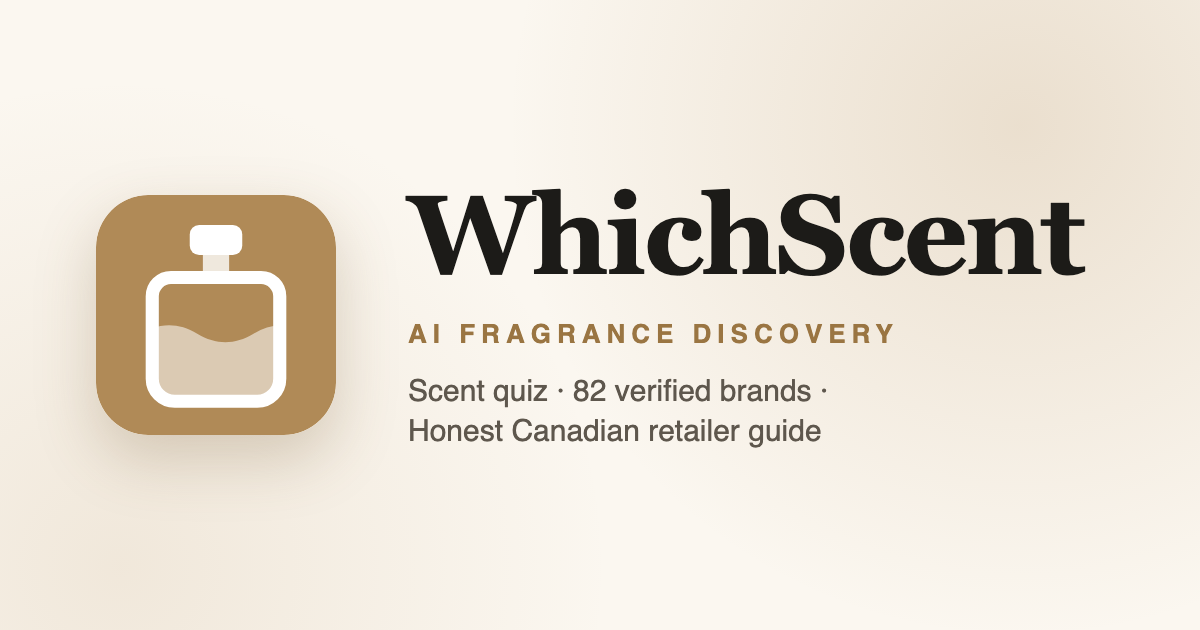
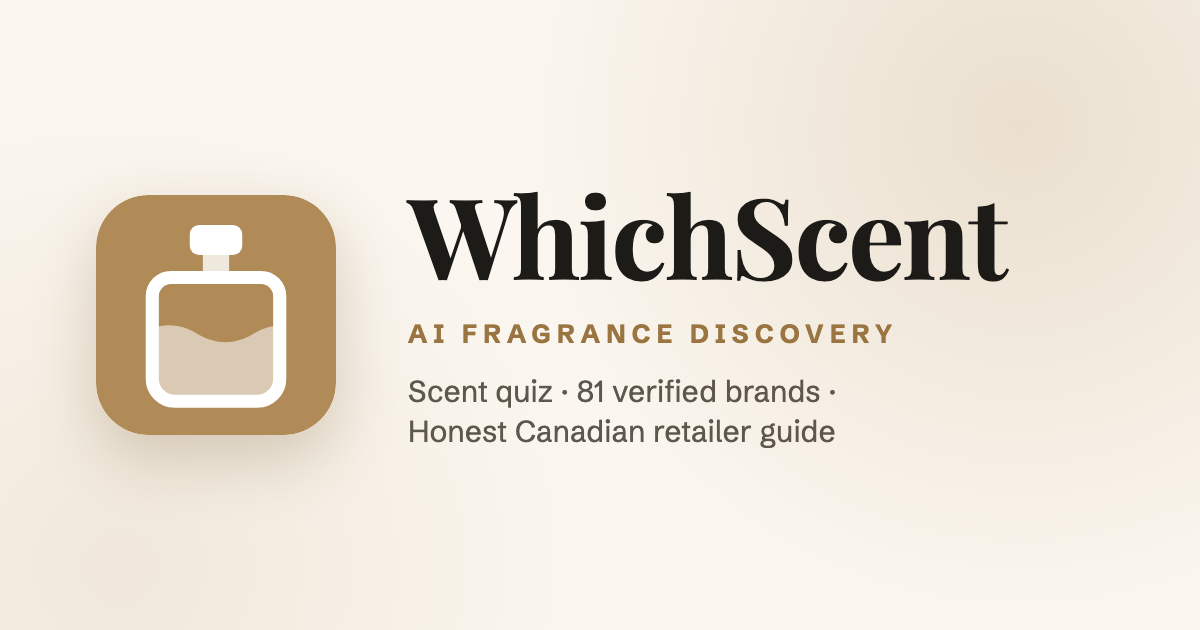
Typeset pass, product brief and site critique
- Replace Inter with Schibsted Grotesk; keep Playfair Display. Both are
  self-hosted variable fonts with preloads and metric-matched fallbacks,
  so Google Fonts is no longer requested.
- Article and Learn text is 16px on every screen and capped at ~72
  characters per line; the article lede gets its own size.
- Small labels get a 12px floor (from 10-11px); one-off sizes move onto
  the scale; prices and match scores use tabular numerals; headings
  balance their line breaks; the 404 uses the display face.
- Add PRODUCT.md and the first Impeccable critique snapshot.
- Share image re-rendered in the real fonts with the correct brand count (81).

Changed region(s): [[0.3392, 0.3016, 0.925, 0.4524], [0.3392, 0.6032, 0.7092, 0.7238], [0.3392, 0.5127, 0.74, 0.5429]]

diff --git a/src/routes/retailers.tsx b/src/routes/retailers.tsx
@@ -131,7 +131,7 @@ const TIPS = [
 
 function Pill({ children }: { children: React.ReactNode }) {
   return (
-    <span className="rounded-full bg-secondary px-3 py-1 text-[11px] font-semibold text-secondary-foreground">
+    <span className="rounded-full bg-secondary px-3 py-1 text-xs font-semibold text-secondary-foreground">
       {children}
     </span>
   );
@@ -170,9 +170,7 @@ function RetailersPage() {
                 <h2 className="font-serif text-xl font-bold text-foreground">{r.name}</h2>
                 <span className="text-xs text-muted-foreground">{r.domain}</span>
               </div>
-              <p className="mt-3 text-[14px] leading-relaxed text-muted-foreground">
-                {r.description}
-              </p>
+              <p className="mt-3 text-sm leading-relaxed text-muted-foreground">{r.description}</p>
               <div className="mt-4 flex flex-wrap gap-2">
                 <Pill>💸 {r.pills.price}</Pill>
                 <Pill>✓ {r.pills.authenticity}</Pill>
@@ -180,7 +178,7 @@ function RetailersPage() {
               </div>
               <div className="mt-5 flex items-center justify-between gap-3 border-t border-border pt-4">
                 <div>
-                  <p className="text-[10px] font-bold uppercase tracking-wide text-muted-foreground">
+                  <p className="text-xs font-bold uppercase tracking-wide text-muted-foreground">
                     Best for
                   </p>
                   <p className="text-sm font-semibold text-foreground">{r.bestFor}</p>
@@ -246,7 +244,7 @@ function RetailersPage() {
                 key={i}
                 className="flex gap-3 rounded-xl border bg-card p-4 text-sm leading-relaxed text-foreground shadow-scent"
               >
-                <span className="flex h-6 w-6 shrink-0 items-center justify-center rounded-full bg-primary text-[11px] font-bold text-primary-foreground">
+                <span className="flex h-6 w-6 shrink-0 items-center justify-center rounded-full bg-primary text-xs font-bold text-primary-foreground">
                   {i + 1}
                 </span>
                 <span>{t}</span>

diff --git a/src/routes/learn.index.tsx b/src/routes/learn.index.tsx
@@ -209,7 +209,7 @@ function LearnPage() {
         <h1 className="mt-2 font-serif text-4xl font-bold leading-tight sm:text-6xl">
           Fragrance Learn Hub
         </h1>
-        <p className="mt-4 max-w-[660px] text-base leading-relaxed text-muted-foreground">
+        <p className="mt-4 max-w-[34rem] text-base leading-relaxed text-muted-foreground">
           In-depth, human-reviewed guides to choosing, wearing and buying fragrance — plus
           plain-English answers to the questions people actually search for. No sponsored
           placements, no invented reviews.{" "}
@@ -291,7 +291,7 @@ function LearnPage() {
       <div className="mx-auto w-full max-w-[1100px] space-y-8 px-5 pb-24">
         <div>
           <h2 className="font-serif text-3xl font-bold">Quick answers</h2>
-          <p className="mt-3 max-w-[640px] text-sm leading-relaxed text-muted-foreground">
+          <p className="mt-3 max-w-[30rem] text-sm leading-relaxed text-muted-foreground">
             Short answers to the questions we get asked most. For the long versions, read the guides
             above.
           </p>
@@ -304,7 +304,7 @@ function LearnPage() {
             className="scroll-mt-24 rounded-3xl border bg-card p-6 shadow-scent sm:p-8"
           >
             <h3 className="font-serif text-2xl font-bold">{topic.title}</h3>
-            <p className="mt-3 max-w-[680px] text-sm leading-relaxed text-muted-foreground">
+            <p className="mt-3 max-w-[30rem] text-sm leading-relaxed text-muted-foreground">
               {topic.intro}
             </p>
 
@@ -338,7 +338,7 @@ function LearnPage() {
 
         <section className="rounded-3xl border border-border bg-card p-6 sm:p-8">
           <h2 className="font-serif text-2xl font-bold">Who writes these guides</h2>
-          <p className="mt-3 max-w-[680px] text-sm leading-relaxed text-muted-foreground">
+          <p className="mt-3 max-w-[30rem] text-sm leading-relaxed text-muted-foreground">
             {AUTHOR.name} — {AUTHOR.bio} Every article is reviewed by a person before publication.
             Our{" "}
             <Link

diff --git a/src/routes/__root.tsx b/src/routes/__root.tsx
@@ -9,6 +9,8 @@ import {
 import { Analytics } from "@vercel/analytics/react";
 
 import appCss from "../styles.css?url";
+import bodyFont from "@fontsource-variable/schibsted-grotesk/files/schibsted-grotesk-latin-wght-normal.woff2?url";
+import displayFont from "@fontsource-variable/playfair-display/files/playfair-display-latin-wght-normal.woff2?url";
 import { ConsentBanner } from "../components/ConsentBanner";
 import { SITE_URL } from "../lib/site";
 
@@ -16,8 +18,8 @@ function NotFoundComponent() {
   return (
     <div className="flex min-h-screen items-center justify-center bg-background px-4">
       <div className="max-w-md text-center">
-        <h1 className="text-7xl font-bold text-foreground">404</h1>
-        <h2 className="mt-4 text-xl font-semibold text-foreground">Page not found</h2>
+        <h1 className="font-serif text-7xl font-bold text-foreground">404</h1>
+        <h2 className="mt-4 font-serif text-2xl font-bold text-foreground">Page not found</h2>
         <p className="mt-2 text-sm text-muted-foreground">
           The page you're looking for doesn't exist or has been moved.
         </p>
@@ -66,11 +68,14 @@ export const Route = createRootRoute({
       { rel: "icon", href: "/favicon.svg", type: "image/svg+xml" },
       { rel: "apple-touch-icon", href: "/apple-touch-icon.png" },
       { rel: "manifest", href: "/site.webmanifest" },
-      { rel: "preconnect", href: "https://fonts.googleapis.com" },
-      { rel: "preconnect", href: "https://fonts.gstatic.com", crossOrigin: "anonymous" },
+      // Preload the Latin subsets every page uses so text renders in the real faces sooner.
+      { rel: "preload", href: bodyFont, as: "font", type: "font/woff2", crossOrigin: "anonymous" },
       {
-        rel: "stylesheet",
-        href: "https://fonts.googleapis.com/css2?family=Inter:wght@400;500;600;700;800&family=Playfair+Display:wght@600;700;800&display=swap",
+        rel: "preload",
+        href: displayFont,
+        as: "font",
+        type: "font/woff2",
+        crossOrigin: "anonymous",
       },
       { rel: "stylesheet", href: appCss },
     ],

diff --git a/src/styles.css b/src/styles.css
@@ -1,6 +1,39 @@
 @import "tailwindcss" source(none);
 @source "../src";
 @import "tw-animate-css";
+/* Self-hosted variable fonts: no third-party font request, and only the subsets a page uses. */
+@import "@fontsource-variable/schibsted-grotesk";
+@import "@fontsource-variable/schibsted-grotesk/wght-italic.css";
+@import "@fontsource-variable/playfair-display";
+
+/* Local fallbacks scaled to the web fonts' measured width and line metrics, so text doesn't
+   jump when the real faces swap in. */
+@font-face {
+  font-family: "Schibsted Grotesk Fallback";
+  src: local("Arial");
+  size-adjust: 103.33%;
+  ascent-override: 94.84%;
+  descent-override: 25.16%;
+  line-gap-override: 0%;
+}
+@font-face {
+  font-family: "Playfair Display Fallback";
+  src: local("Georgia");
+  font-weight: 400;
+  size-adjust: 88.57%;
+  ascent-override: 121.94%;
+  descent-override: 28.23%;
+  line-gap-override: 0%;
+}
+@font-face {
+  font-family: "Playfair Display Fallback";
+  src: local("Georgia Bold"), local("Georgia-Bold");
+  font-weight: 700;
+  size-adjust: 88.57%;
+  ascent-override: 121.94%;
+  descent-override: 28.23%;
+  line-gap-override: 0%;
+}
 
 @custom-variant dark (&:is(.dark *));
 
@@ -77,8 +110,8 @@
   --shimmer: linear-gradient(90deg, transparent, var(--primary), transparent);
   --shadow-scent: 0 2px 12px oklch(0 0 0 / 6%);
   --shadow-scent-hover: 0 18px 38px oklch(0.45 0.05 60 / 15%);
-  --font-heading: "Playfair Display", Georgia, serif;
-  --font-body: "Inter", system-ui, sans-serif;
+  --font-heading: "Playfair Display Variable", "Playfair Display Fallback", Georgia, serif;
+  --font-body: "Schibsted Grotesk Variable", "Schibsted Grotesk Fallback", system-ui, sans-serif;
 }
 
 .dark {
@@ -144,6 +177,11 @@
   }
   html {
     font-family: var(--font-body);
+  }
+  h1,
+  h2,
+  h3 {
+    text-wrap: balance;
   }
   body {
     background-color: var(--color-background);

diff --git a/src/components/directory/BrandCard.tsx b/src/components/directory/BrandCard.tsx
@@ -16,7 +16,7 @@ export function BrandCard({ brand, accent = false }: { brand: Brand; accent?: bo
       }`}
     >
       {brand.featured && (
-        <span className="absolute right-3 top-3 rounded-full bg-primary/10 px-2 py-0.5 text-[10px] font-bold uppercase tracking-wide text-primary">
+        <span className="absolute right-3 top-3 rounded-full bg-primary/10 px-2 py-0.5 text-xs font-bold uppercase tracking-wide text-primary">
           ★ Featured
         </span>
       )}
@@ -24,7 +24,7 @@ export function BrandCard({ brand, accent = false }: { brand: Brand; accent?: bo
         <h3 className="font-serif text-lg font-bold leading-tight text-foreground">{brand.name}</h3>
       </div>
       <div className="mt-2 flex flex-wrap items-center gap-2">
-        <span className={`rounded-full px-2 py-0.5 text-[11px] font-semibold ${cat.cls}`}>
+        <span className={`rounded-full px-2 py-0.5 text-xs font-semibold ${cat.cls}`}>
           {cat.label}
         </span>
         <span className="text-xs text-muted-foreground">
@@ -32,7 +32,7 @@ export function BrandCard({ brand, accent = false }: { brand: Brand; accent?: bo
         </span>
         <span className="text-xs text-muted-foreground">· est. {brand.founded}</span>
       </div>
-      <p className="mt-3 line-clamp-2 text-[13px] leading-relaxed text-muted-foreground">
+      <p className="mt-3 line-clamp-2 text-sm leading-relaxed text-muted-foreground">
         {brand.tagline}
       </p>
       <a

diff --git a/src/components/article/ArticleBody.tsx b/src/components/article/ArticleBody.tsx
@@ -78,7 +78,7 @@ function parse(body: string): Block[] {
 export function ArticleBody({ body }: { body: string }) {
   const blocks = parse(body);
   return (
-    <div className="mt-8 space-y-5">
+    <div className="mt-8 max-w-[34rem] space-y-5">
       {blocks.map((block, index) => {
         const key = `b${index}`;
         if (block.kind === "h2") {
@@ -105,7 +105,7 @@ export function ArticleBody({ body }: { body: string }) {
               {block.items.map((item, itemIndex) => (
                 <li
                   key={itemIndex}
-                  className="flex gap-3 text-[15px] leading-relaxed text-muted-foreground"
+                  className="flex gap-3 text-base leading-[1.7] text-muted-foreground"
                 >
                   <span aria-hidden className="mt-[2px] shrink-0 text-primary">
                     ✦
@@ -117,10 +117,7 @@ export function ArticleBody({ body }: { body: string }) {
           );
         }
         return (
-          <p
-            key={key}
-            className="text-[15px] leading-relaxed text-muted-foreground sm:text-base sm:leading-[1.75]"
-          >
+          <p key={key} className="text-base leading-[1.7] text-muted-foreground">
             {inline(block.text, key)}
           </p>
         );

diff --git a/src/components/FragranceCard.tsx b/src/components/FragranceCard.tsx
@@ -76,7 +76,7 @@ export function FragranceCard({
             </p>
           )}
           <p className="text-sm font-semibold text-muted-foreground">{fragrance.brand}</p>
-          <h2 className="font-serif text-[1.575rem] font-bold leading-tight text-card-foreground">
+          <h2 className="font-serif text-2xl font-bold leading-tight text-card-foreground">
             {fragrance.name}
           </h2>
         </div>
@@ -85,7 +85,7 @@ export function FragranceCard({
 
       <div className="mt-4 flex flex-wrap gap-2">
         <span
-          className={`rounded-full px-3 py-1 text-xs font-bold uppercase ${badgeClass[fragrance.priceRange]}`}
+          className={`rounded-full px-3 py-1 text-xs font-bold uppercase tabular-nums ${badgeClass[fragrance.priceRange]}`}
         >
           {fragrance.priceDisplay}
         </span>
@@ -95,7 +95,7 @@ export function FragranceCard({
           </span>
         )}
         {mode === "result" && (
-          <span className="rounded-full bg-primary px-3 py-1 text-xs font-bold text-primary-foreground">
+          <span className="rounded-full bg-primary px-3 py-1 text-xs font-bold tabular-nums text-primary-foreground">
             {matchScore}% match
           </span>
         )}

diff --git a/src/routes/learn.$slug.tsx b/src/routes/learn.$slug.tsx
@@ -166,13 +166,15 @@ function ArticlePage() {
           </ol>
         </nav>
 
-        <p className="mt-6 text-[11px] font-bold uppercase tracking-wide text-primary">
+        <p className="mt-6 text-xs font-bold uppercase tracking-wide text-primary">
           {article.category}
         </p>
         <h1 className="mt-2 font-serif text-3xl font-bold leading-tight sm:text-5xl">
           {article.title}
         </h1>
-        <p className="mt-4 text-base leading-relaxed text-muted-foreground">{article.excerpt}</p>
+        <p className="mt-4 max-w-[34rem] text-lg leading-relaxed text-muted-foreground">
+          {article.excerpt}
+        </p>
 
         <div className="mt-6 flex flex-wrap items-center gap-x-3 gap-y-1 text-xs text-muted-foreground">
           <span className="font-semibold text-foreground">{AUTHOR.name}</span>

diff --git a/src/routes/adsense-readiness.tsx b/src/routes/adsense-readiness.tsx
@@ -313,7 +313,7 @@ function ReadinessPage() {
                               {item.label}
                             </span>
                             <span
-                              className={`rounded-full px-2 py-0.5 text-[10px] font-bold uppercase tracking-wide ${
+                              className={`rounded-full px-2 py-0.5 text-xs font-bold uppercase tracking-wide ${
                                 item.status === "done"
                                   ? "bg-primary text-primary-foreground"
                                   : "border border-border text-muted-foreground"

diff --git a/src/components/article/ArticleCard.tsx b/src/components/article/ArticleCard.tsx
@@ -27,9 +27,7 @@ export function ArticleCard({
         />
       </Link>
       <div className="flex flex-1 flex-col p-5 sm:p-6">
-        <p className="text-[11px] font-bold uppercase tracking-wide text-primary">
-          {article.category}
-        </p>
+        <p className="text-xs font-bold uppercase tracking-wide text-primary">{article.category}</p>
         <h3 className="mt-2 font-serif text-xl font-bold leading-snug text-foreground">
           <Link to="/learn/$slug" params={{ slug: article.slug }} className="hover:text-primary">
             {article.title}

diff --git a/src/components/SiteFooter.tsx b/src/components/SiteFooter.tsx
@@ -55,7 +55,7 @@ export function SiteFooter() {
               </button>
             </nav>
             <nav className="grid gap-y-2" aria-label="Popular guides">
-              <p className="text-[11px] font-bold uppercase tracking-wide text-foreground">
+              <p className="text-xs font-bold uppercase tracking-wide text-foreground">
                 Popular guides
               </p>
               {ARTICLE_LINKS.map((item) => (

diff --git a/src/routes/brands.tsx b/src/routes/brands.tsx
@@ -131,9 +131,7 @@ function BrandDirectory() {
                 }`}
               >
                 {c.label}
-                <span
-                  className={`ml-2 text-[11px] ${active ? "opacity-80" : "text-muted-foreground"}`}
-                >
+                <span className={`ml-2 text-xs ${active ? "opacity-80" : "text-muted-foreground"}`}>
                   {counts[c.key]}
                 </span>
               </button>
